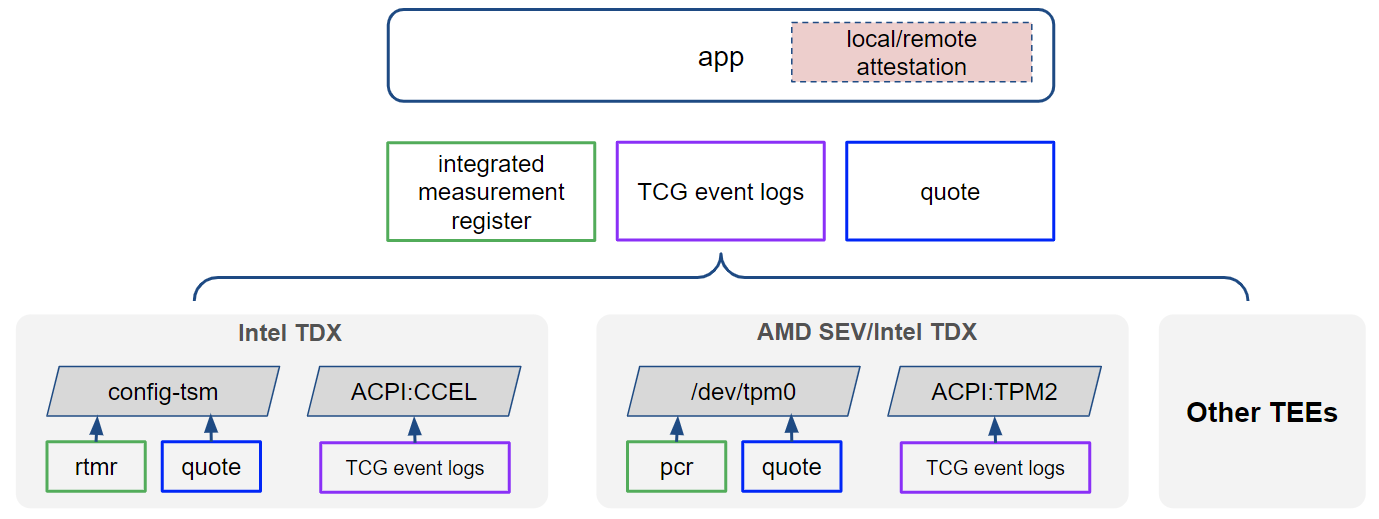
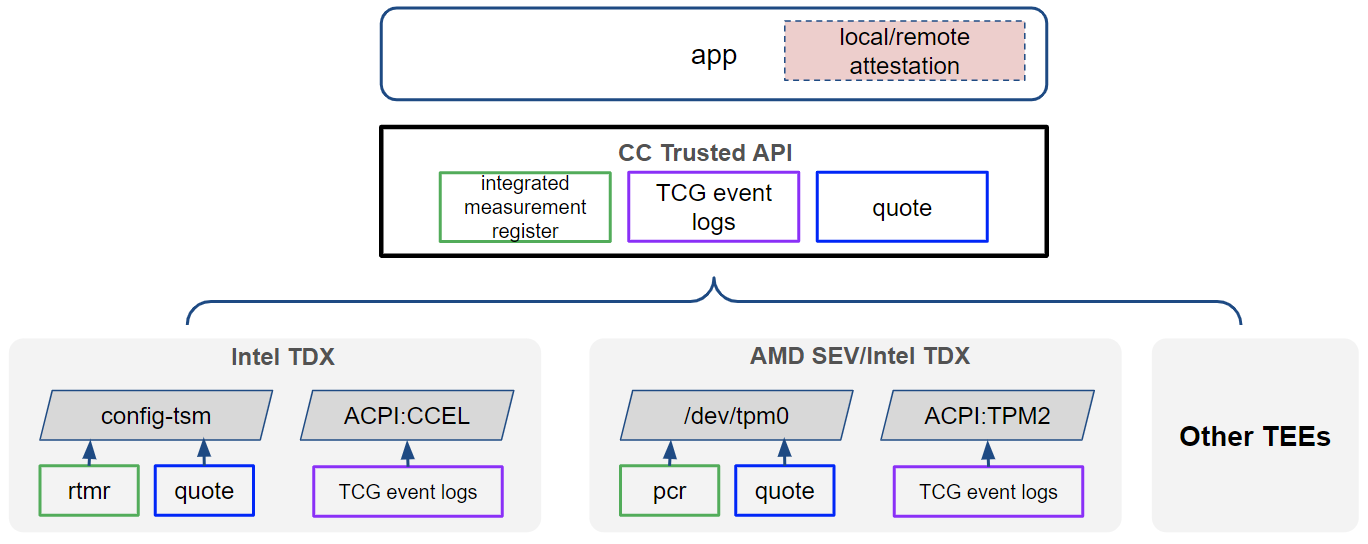
README.md: update TEE picture

diff --git a/profile/README.md b/profile/README.md
@@ -12,15 +12,15 @@ It serves as a central gathering place for specs, documentation, and ideas.
 
 ### 2.1 CC Trusted API
 
-CC Trusted API is designed to reduce the challenge of:
-
-- collecting trust measurements for **different frameworks** like confidential VM,
-[confidential cluster](https://github.com/edgelesssys/constellation), [confidential container](https://github.com/confidential-containers) etc
-![](/profile/cloud_frameworks.png)
-- accessing trust measurements from the **different TEEs** like Intel TDX, AMD SEV etc
+CC Trusted API is designed to access trust measurements **across different TEEs**
+like Intel TDX, AMD SEV etc
 ![](/profile/TEEs.png)
 
-Fine mores SDK/Services to calculate measurements:
+Meanwhile, the SDK & services are designed to collect trust measurements across
+**different frameworks** like confidential VM,
+[confidential cluster](https://github.com/edgelesssys/constellation), [confidential container](https://github.com/confidential-containers) etc
+![](/profile/cloud_frameworks.png)
 
+Fine mores:
 - Virtual Machine: [cc-trusted-vmsdk](https://github.com/cc-api/cc-trusted-vmsdk)
 - Cloud Native: [confidential cloud native primitive (CCNP)](https://github.com/cc-api/confidential-cloud-native-primitives)
